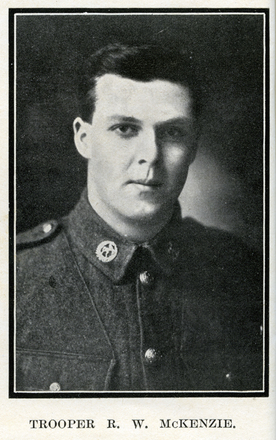
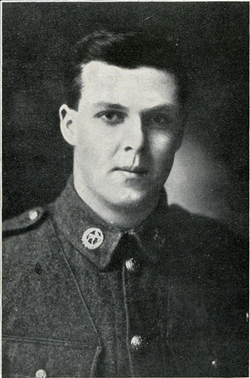
Photo Crop Update

diff --git a/data.js b/data.js
@@ -239,9 +239,9 @@ people = [{
         name: "O.P. Johnston",
         fullname: "Olaf Percival Johnson",
         imgpath: "img/faces/13-152.jpg",
-        id: "13/152",
+        id: "13-152",
         DOB: " ",
-        serviceID: "13-152",
+        serviceID: "13/152",
         birthPlace: " ",
         DOD: "9 August 1916",
         occupation: " ",

diff --git a/views/person.html b/views/person.html
@@ -4,6 +4,7 @@
         <img class="profile" src="{{person.imgpath}}">
         <div class="card">
             <h1>{{person.name}}</h1>
+			<h1>{{person.fullname}}</h1>
             <div class="row">
                 <div class="col-sm-6 text-left">
                     <h4 id="dob">
